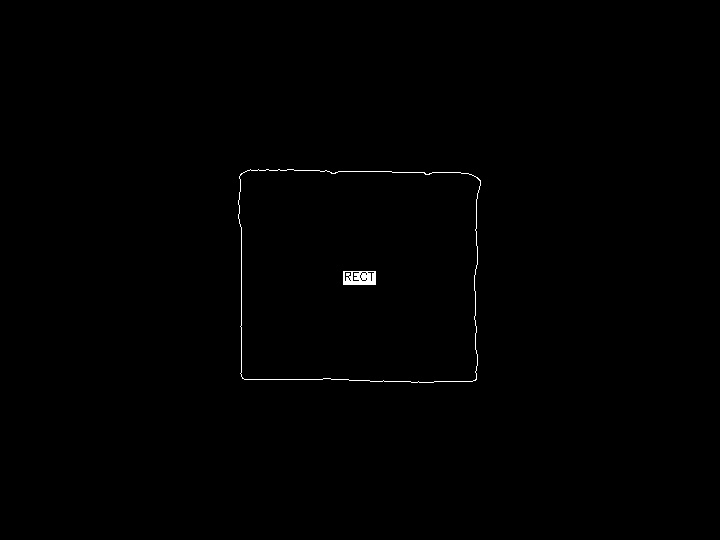
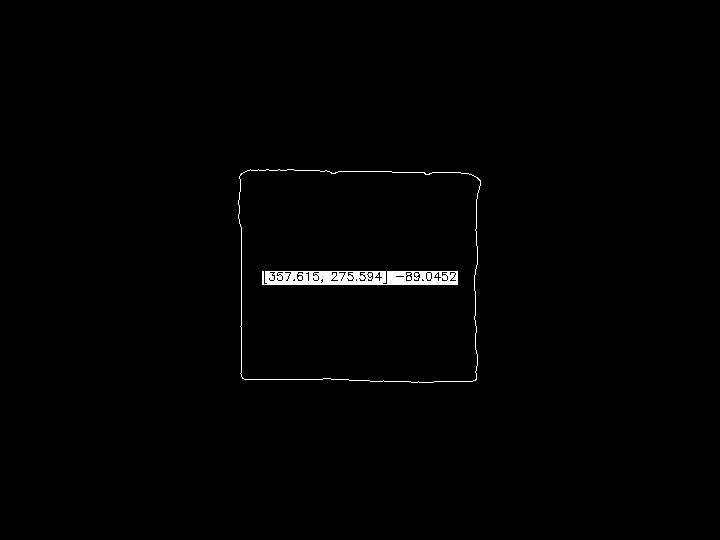
finished fabric node, should look into localizing over Z to get accurate coordinates

Changed region(s): [[0.3667, 0.5037, 0.6417, 0.5333]]

diff --git a/src/FabricVision.cpp b/src/FabricVision.cpp
@@ -51,12 +51,47 @@ FabricVision::FabricVision()
   filter_.high_value = 255;
 }
 
-cv::VideoCapture FabricVision::openCamera(int device) const
+void FabricVision::subscribeTopic(const std::string &topic_name)
 {
-  cv::VideoCapture video = cv::VideoCapture(device);
-  if (!video.isOpened())
+  subscriber_ = node_.subscribe(topic_name,
+                                10,
+                                &FabricVision::calculateVertices,
+                                this);
+}
+
+void FabricVision::publishTopic(const std::string &topic_name)
+{
+  publisher_ = node_.advertise<std_msgs::Float64MultiArray>(topic_name,
+                                                            10);
+}
+
+void FabricVision::calculateVertices(const std_msgs::Bool &msg)
+{
+  if (msg.data)
+  {
+    std_msgs::Float64MultiArray vert_msg;
+    cv::Mat image;
+    image = image_.clone();
+    std::vector<std::vector<cv::Point> > contours;
+    contours = findContours(image);
+    cv::RotatedRect r = findRectangles(image, contours);
+    cv::Point2f vertices[4];
+    r.points(vertices);
+    for (int i = 0; i < 4; ++i)
+    {
+      vert_msg.data.push_back(vertices[i].x);
+      vert_msg.data.push_back(vertices[i].y);
+    }
+    publisher_.publish(msg);
+  }
+}
+
+cv::VideoCapture FabricVision::openCamera(int device)
+{
+  video_ = cv::VideoCapture(device);
+  if (!video_.isOpened())
     ROS_ERROR("Device %d could not be found", device);
-  return (video);
+  return (video_);
 }
 
 void FabricVision::showCamera(cv::VideoCapture &camera,
@@ -71,6 +106,31 @@ void FabricVision::showCamera(cv::VideoCapture &camera,
     if (cv::waitKey(30) == 1048603) // Escape key
       break;
   }
+}
+
+void FabricVision::getFrame()
+{
+  if (!video_.isOpened())
+  {
+    ROS_ERROR("Camera not initialized");
+    return;
+  }
+  video_.read(image_);
+}
+
+void FabricVision::applyFilters()
+{
+  toHSV(image_);
+  threshold(image_,filter_);
+  morphologicalOpening(image_);
+  morphologicalClosing(image_);
+  toCanny(image_);
+}
+
+void FabricVision::showFrame(const std::string &window_name) const
+{
+  cv::imshow(window_name, image_);
+  cv::waitKey(30);
 }
 
 cv::Mat FabricVision::openFile(const std::string &filename)
@@ -120,6 +180,36 @@ std::vector<std::vector<cv::Point> > FabricVision::findContours(cv::Mat& image) 
   std::vector<std::vector<cv::Point> > contours;
   cv::findContours(image.clone(), contours, cv::RETR_EXTERNAL, cv::CHAIN_APPROX_SIMPLE);
   return (contours);
+}
+
+cv::RotatedRect FabricVision::findRectangles(const cv::Mat &image,
+                                      const std::vector<std::vector<cv::Point> > &contours) const
+{
+  std::vector<cv::Point> approx;
+  for (int i = 0; i < contours.size(); i++)
+  {
+    cv::approxPolyDP(cv::Mat(contours[i]),
+                     approx,
+                     cv::arcLength(cv::Mat(contours[i]), true) * 0.02,
+                     true);
+    if (std::fabs(cv::contourArea(contours[i])) < 100 || !cv::isContourConvex(approx))
+      continue;
+
+    if (approx.size() == 4)
+    {
+      std::vector<double> cos;
+      for (int j = 2; j < 5; j++)
+        cos.push_back(angle(approx[j%approx.size()], approx[j-2], approx[j-1]));
+      std::sort(cos.begin(), cos.end());
+      double mincos = cos.front();
+      double maxcos = cos.back();
+      if (mincos >= -0.1 && maxcos <= 0.3)
+      {
+        cv::RotatedRect r = cv::minAreaRect(contours[i]);
+        return r;
+      }
+    }
+  }
 }
 
 cv::Mat FabricVision::setLabels(const cv::Mat& src,
@@ -172,7 +262,14 @@ cv::Mat FabricVision::setLabels(const cv::Mat& src,
         cv::Rect r = cv::boundingRect(contours[i]);
         double ratio = std::abs(1 - (double)r.width / r.height);
 
-        setLabel(dst, ratio <= 0.02 ? "SQU" : "RECT", contours[i]);
+        // setLabel(dst, ratio <= 0.02 ? "SQU" : "RECT", contours[i]);
+
+        {
+          cv::RotatedRect rot = cv::minAreaRect(contours[i]);
+          std::stringstream lbl;
+          lbl << rot.center << " " << rot.angle;
+          setLabel(dst, lbl.str(), contours[i]);
+        }
       }
       else if (vtc == 5 && mincos >= -0.34 && maxcos <= -0.27)
         setLabel(dst, "PENTA", contours[i]);

diff --git a/include/hand_publisher/FabricVision.h b/include/hand_publisher/FabricVision.h
@@ -41,6 +41,8 @@
 
 #include <string>
 #include <ros/ros.h>
+#include <std_msgs/Bool.h>
+#include <std_msgs/Float64MultiArray.h>
 #include <opencv2/opencv.hpp>
 
 namespace raad2015 {
@@ -60,9 +62,15 @@ class FabricVision
 {
 public:
   FabricVision();
-  cv::VideoCapture openCamera(int device = 0) const;
+  void subscribeTopic(const std::string &topic_name);
+  void publishTopic(const std::string &topic_name);
+
+  cv::VideoCapture openCamera(int device = 0);
   void showCamera(cv::VideoCapture &camera,
                   const std::string &window_name = "Camera Image") const;
+  void getFrame();
+  void applyFilters();
+  void showFrame(const std::string &window_name = "Filtered Image") const;
   cv::Mat openFile(const std::string &filename);
   void showImage(const cv::Mat &image,
                  const std::string &window_name = "Display Image") const;
@@ -84,12 +92,21 @@ public:
   void setFilter(const FilterHSV &filter);
   void thresholdGUI(const std::string &window_name = "HSV Control");
 private:
+  void calculateVertices(const std_msgs::Bool &msg);
+
+  cv::RotatedRect findRectangles(const cv::Mat &image,
+                          const std::vector<std::vector<cv::Point> > &contours) const;
   void setLabel(cv::Mat& im,
                 const std::string label,
                 const std::vector<cv::Point>& contour) const;
   double angle(cv::Point pt1, cv::Point pt2, cv::Point pt0) const;
 
   FilterHSV filter_;
+  cv::VideoCapture video_;
+  cv::Mat image_;
+  ros::NodeHandle node_;
+  ros::Publisher publisher_;
+  ros::Subscriber subscriber_;
 };
 
 }

diff --git a/src/fabric_vision_node.cpp b/src/fabric_vision_node.cpp
@@ -46,6 +46,19 @@ int main(int argc, char** argv)
   ros::NodeHandle n;
 
   raad2015::FabricVision vision;
+  vision.publishTopic("fabric_vertices");
+  vision.subscribeTopic("fabric_localization_request");
+  vision.openCamera();
+  vision.thresholdGUI();
+  ros::Rate rate(30);
 
+  while(ros::ok())
+  {
+    vision.getFrame();
+    vision.applyFilters();
+    vision.showFrame();
+    ros::spinOnce();
+    rate.sleep();
+  }
   return 0;
 }

diff --git a/src/serial_communication_node.cpp b/src/serial_communication_node.cpp
@@ -42,7 +42,6 @@ int main(int argc, char** argv)
 {
   ros::init(argc, argv, "serial_communication_node");
   raad2015::SerialCommunication comms;
-  ROS_INFO("Successfully created comms object");
   comms.publishTopic("serial_incoming_messages");
   comms.subscribeTopic("serial_outgoing_messages");
   comms.runLoop();
